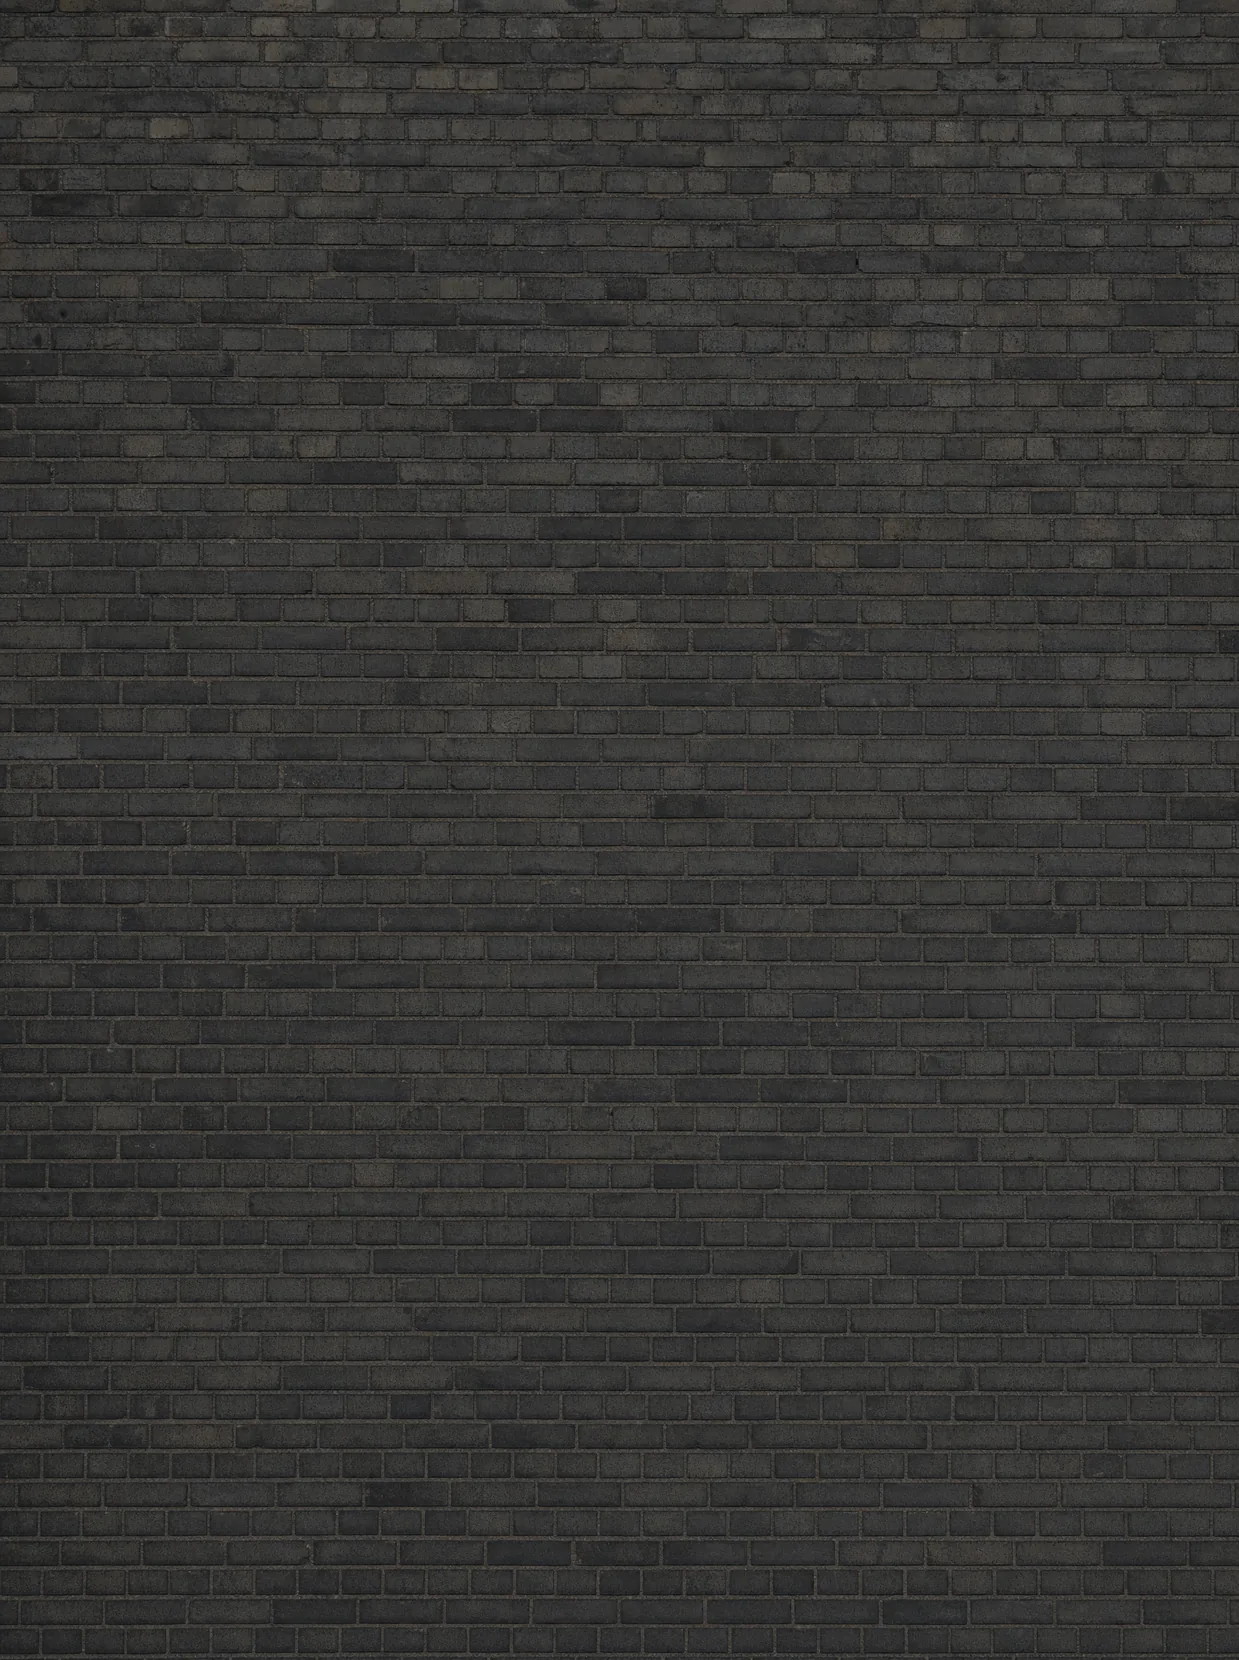
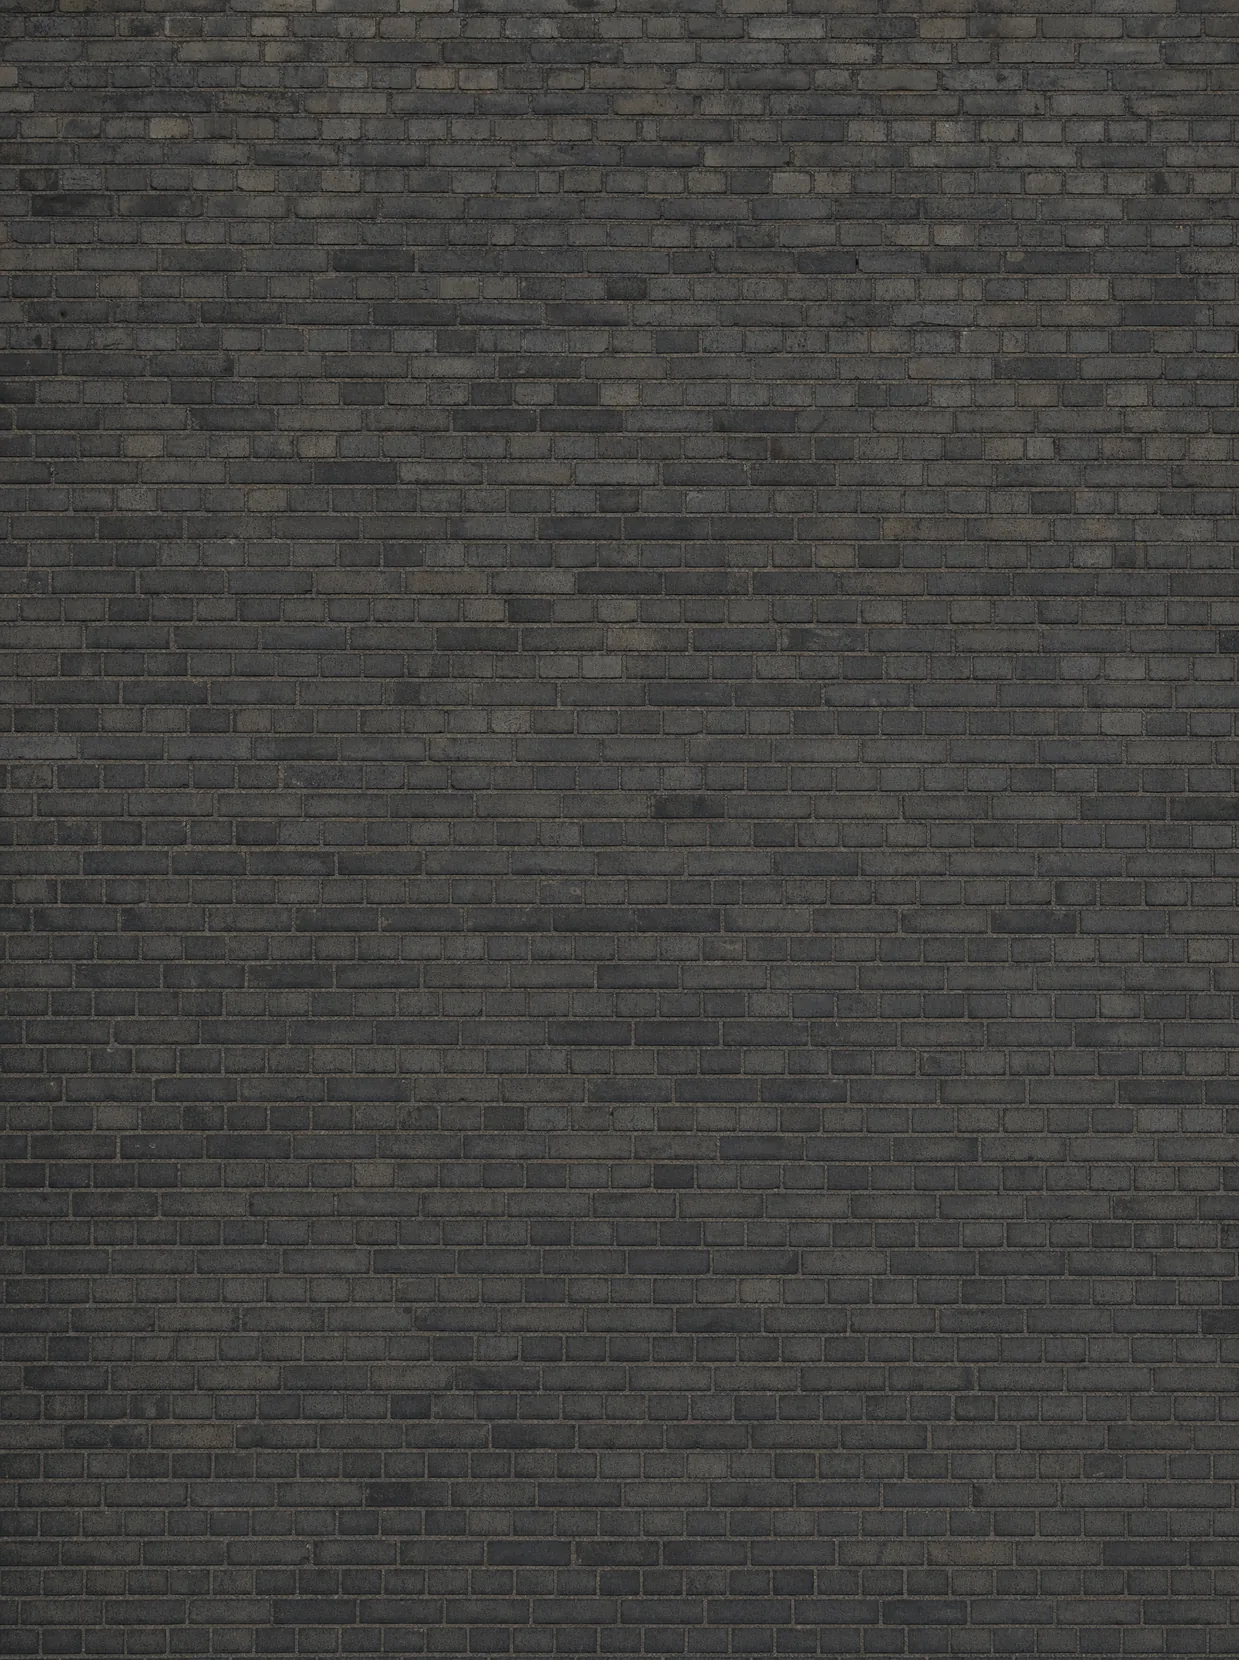
헤더 사슬 제거 + 벽돌 배경 한 단계 밝게
- 명판을 매달던 레일·사슬을 걷어내고 명판만 정면으로
- 벽돌 밝기 62% → 76%로 다시 구움

Claude-Session: https://claude.ai/code/session_01B7nMrDVAhxnE98ccqfHJmc

diff --git a/index.html b/index.html
@@ -51,15 +51,8 @@ header{position:relative;overflow:hidden;padding:calc(52px + env(safe-area-inset
         background:linear-gradient(180deg, rgba(24,22,26,.34), rgba(24,22,26,.10) 55%, transparent)}
 header > .rig, header > .en, header > .est, header > .tagline{position:relative}
 /* 역 천장에 사슬로 매단 황동 명판 */
-.rig{position:relative;display:inline-block;padding-top:36px;max-width:300px;width:78%}
-.rail{position:absolute;left:50%;top:0;transform:translateX(-50%);width:74%;height:5px;border-radius:2px;
-      background:linear-gradient(180deg,#C7A45C,#8A6B2B 55%,#6B5220);
-      box-shadow:0 1px 2px rgba(58,42,30,.35)}
-.chain{position:absolute;top:4px;width:3px;height:34px;
-       background:repeating-linear-gradient(180deg,#C9A55E 0 5px,#7E6127 5px 7px)}
-.chain.l{left:24%}
-.chain.r{right:24%}
-.plate{display:block;width:100%;height:auto;transform:rotate(-.5deg);
+.rig{position:relative;display:inline-block;max-width:300px;width:78%}
+.plate{display:block;width:100%;height:auto;
        filter:drop-shadow(0 9px 12px rgba(58,42,30,.34))}
 .en{font-family:'Cinzel',serif;font-size:10.5px;letter-spacing:5px;color:var(--brass);
     font-weight:800;margin-top:15px}
@@ -269,9 +262,6 @@ footer .ft{font-size:10.5px;color:#A79E8F;letter-spacing:1px;line-height:1.8}
   <div class="herobg" aria-hidden="true"></div>
   <div class="heroov" aria-hidden="true"></div>
   <div class="rig">
-    <div class="rail" aria-hidden="true"></div>
-    <div class="chain l" aria-hidden="true"></div>
-    <div class="chain r" aria-hidden="true"></div>
     <img class="plate" src="v/L2_jewel.webp" alt="TÜNEL" width="924" height="480">
   </div>
   <div class="en">T Ü N E L · S E O U L</div>
